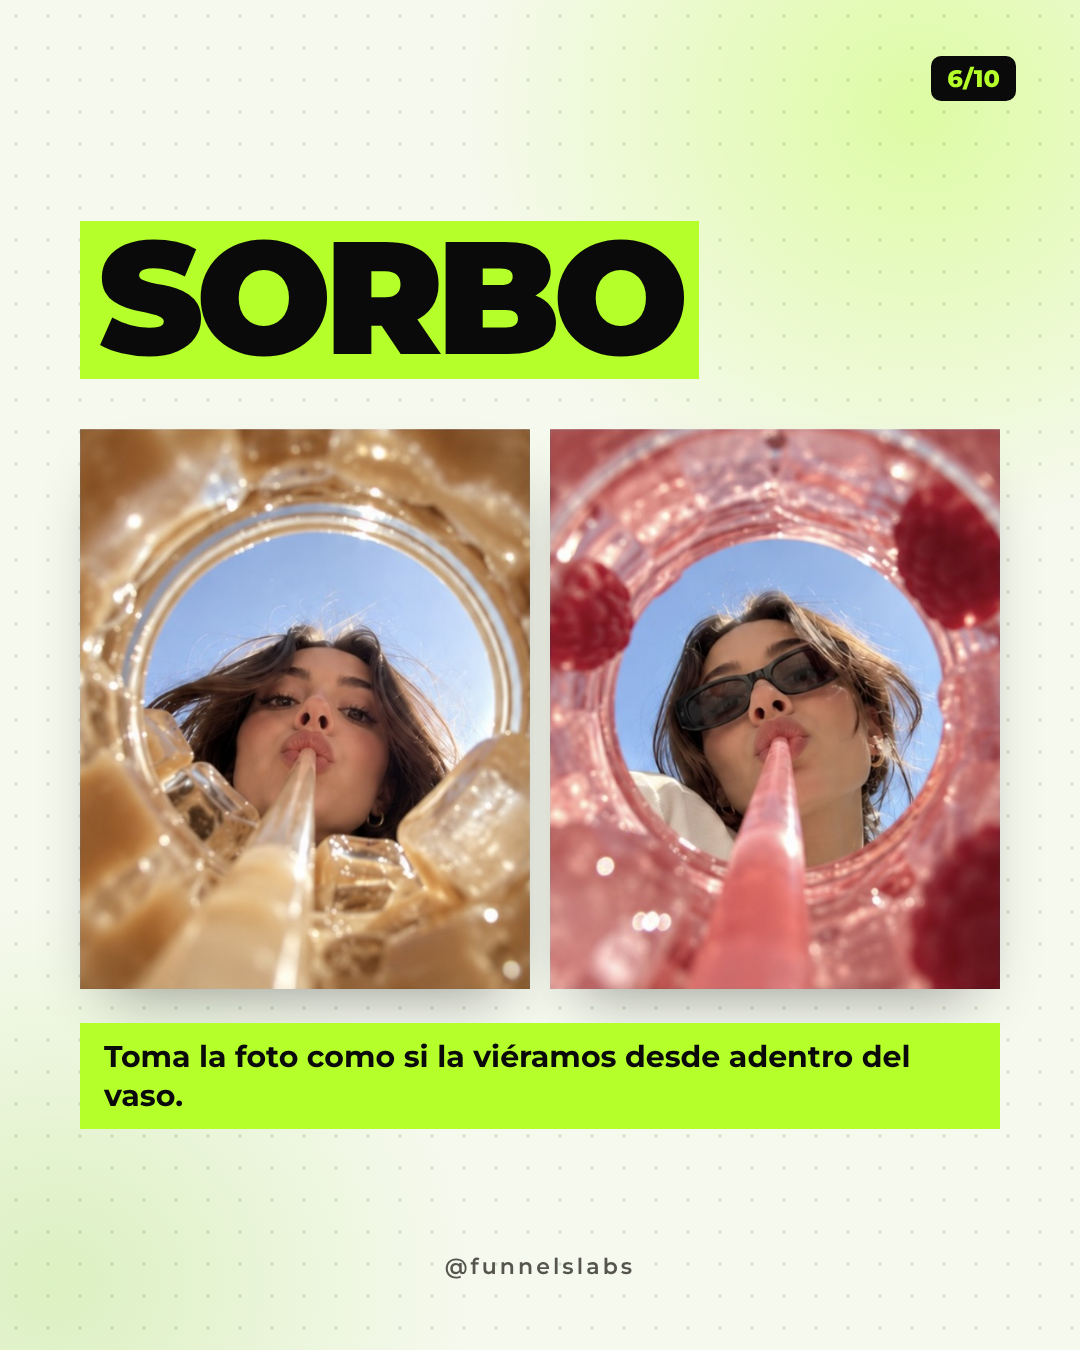
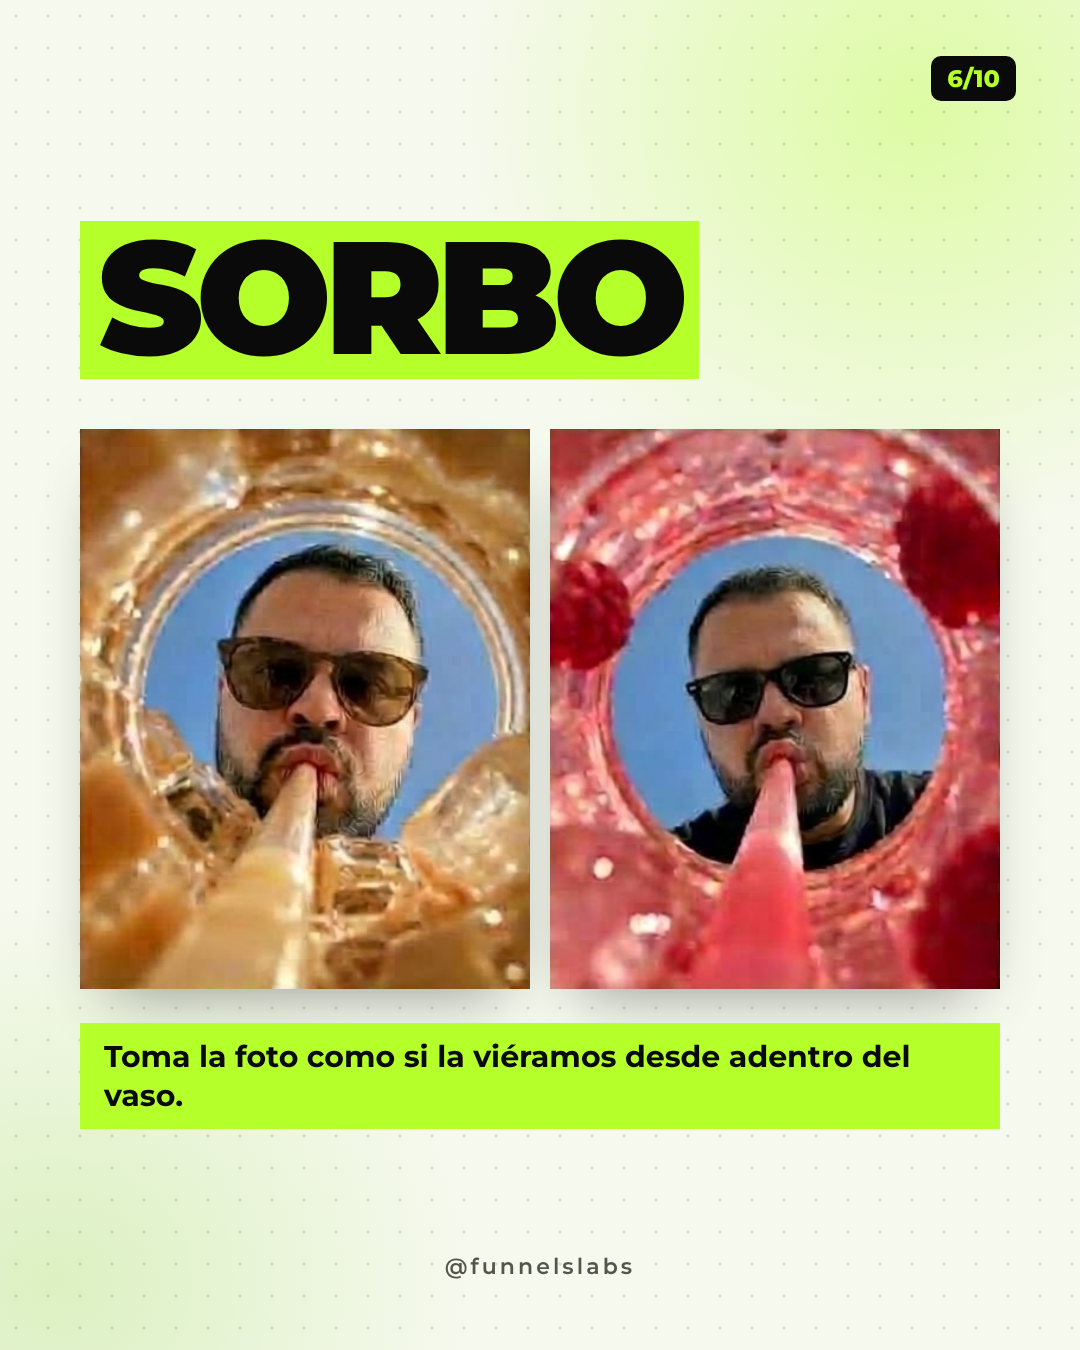
Sorbo con fotos del hombre en estilo de marca
Claude-Session: https://claude.ai/code/session_018d4LXHkXweDJXxfN5x99dL

Changed region(s): [[0.0611, 0.3111, 0.9472, 0.7467]]

diff --git a/carruseles/ideas-carruseles/carrusel.html b/carruseles/ideas-carruseles/carrusel.html
@@ -75,8 +75,8 @@ body{background:#d9d9d2;font-family:"Montserrat",Arial,sans-serif;color:var(--in
   <div class="n">6/10</div>
   <div class="T hl" style="font-size:160px;align-self:flex-start">Sorbo</div>
   <div style="display:flex;gap:20px;margin-top:50px">
-    <div class="ph" style="width:450px;height:560px"><img src="ref/r3a.jpg"></div>
-    <div class="ph" style="width:450px;height:560px"><img src="ref/r3b.jpg"></div>
+    <div class="ph" style="width:450px;height:560px"><img src="ref/sorbo-a.jpg"></div>
+    <div class="ph" style="width:450px;height:560px"><img src="ref/sorbo-b.jpg"></div>
   </div>
   <div class="cap">Toma la foto como si la viéramos desde adentro del vaso.</div>
   <div class="handle">@funnelslabs</div>
